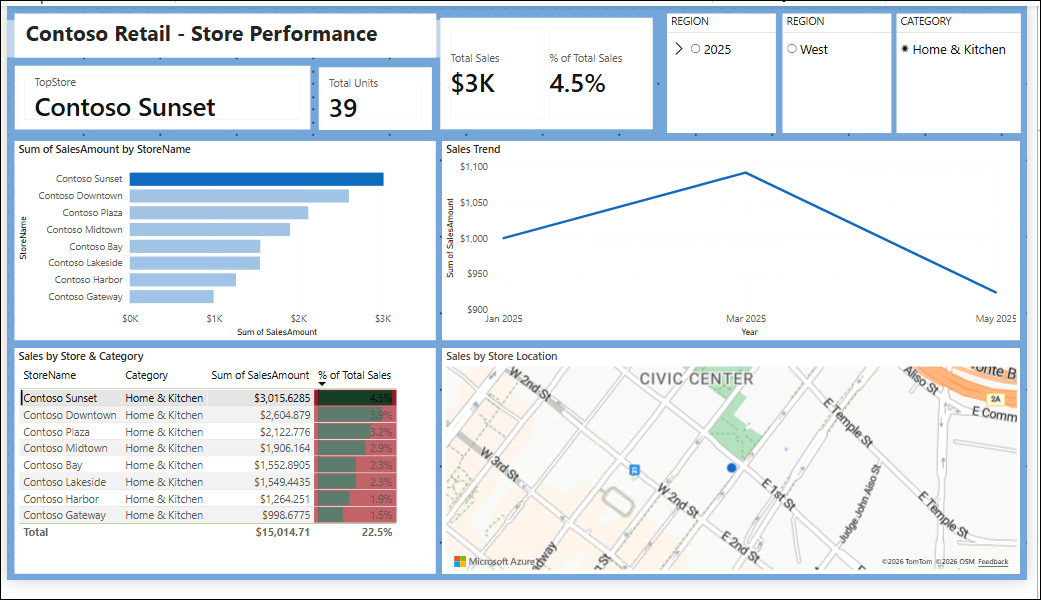
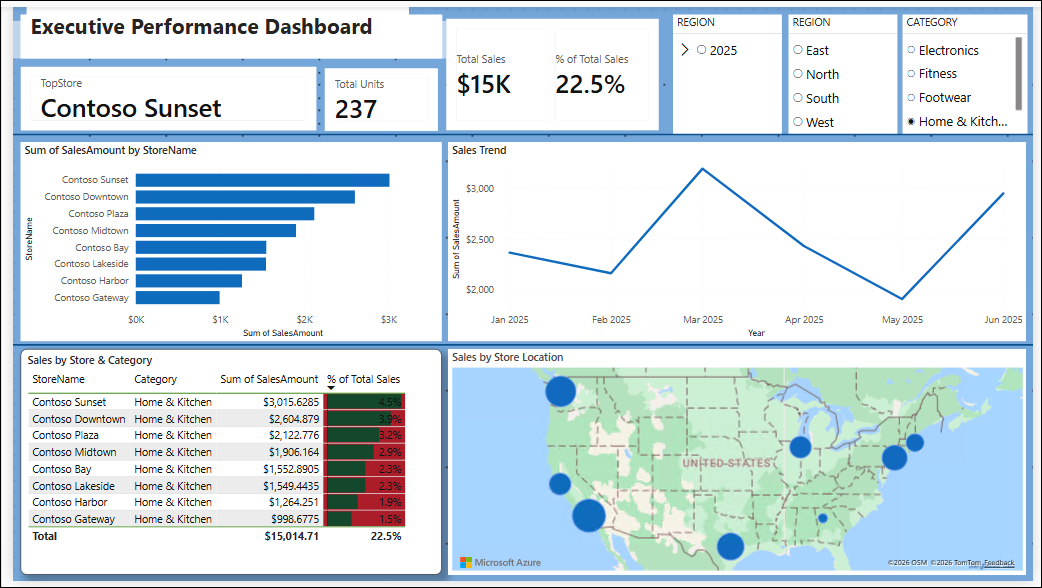
updated lab guides

diff --git a/LabGuidepackageHOL2/Lab Guide/Exercise-02.md b/LabGuidepackageHOL2/Lab Guide/Exercise-02.md
@@ -165,14 +165,10 @@ In this task, you will add presentation elements — a background, section shape
 
 1. Configure the canvas background:
 
-   - **Color (1)**: A very light neutral tint from your theme
-   - Or click **Browse (2)** under Image to add the approved branded image from **C:\LabFiles\Images\contoso-background.png**
-   - **Image fit (3)**: Fit
-   - **Transparency (4)**: Adjust (for example, **85%**) so all visuals remain fully readable
+   - **Color**: A very light neutral tint from your theme
+   - **Transparency**: Adjust (for example, **15%**) so all visuals remain fully readable
 
-   ![](./Images/L2E2T3S3.png)
-
-   > **Note**: Also review the **Wallpaper** setting, which formats the area *outside* the report canvas — useful for widescreen presentation displays.
+      ![](./Images/L2E2T3S3.png)
 
 1. On the **Insert (1)** ribbon, select **Shapes (2)** and choose **Rectangle (3)**.
 
@@ -180,25 +176,35 @@ In this task, you will add presentation elements — a background, section shape
 
 1. Resize and position the rectangle across the top of the page to act as a **title banner**, and format it:
 
-   - **Style > Fill (1)**: A primary brand colour
-   - **Border (2)**: Off, or a subtle darker shade
-   - Send it behind other elements if needed using **Format > Send backward**
+   - **Style > Fill**: A primary brand colour
+   - **Border**: Off, or a subtle darker shade
 
-   ![](./Images/L2E2T3S6.png)
+      ![](./Images/L2E2T3S5.png)
+
+   - Send it behind other elements if needed by selecting the rectangle and using **Format (1) > Send backward (2)**
+
+     ![](./Images/L2E2T3S6.png)
 
 1. Add one or two thin **Line** shapes to visually separate sections of the page (for example, KPIs at the top from detail charts below).
 
-   ![](./Images/L2E2T3S5.png)
+   - Go to **Insert (1)> Shapes (2) > Line (3)**.
+
+      ![](./Images/L2E2T3S7-1.png)
+
+   - Click and drag to draw a thin horizontal line between your KPI cards row and the charts below.
+
+      ![](./Images/L2E2T3S7.png)
 
 1. On the **Insert** ribbon, select **Text box** and enter the following page title:
 
    ```
    Executive Performance Dashboard
    ```
+   ![](./Images/L2E2T3S9.png)
 
 1. Format the title so it matches the selected report theme — set the font, size (for example, **24pt**), colour (white or a brand colour that contrasts with the banner), and **bold**, then position it on the title banner.
 
-   ![](./Images/L2E2T3S6.png)
+   ![](./Images/L2E2T3S10.png)
 
 1. Select one of your main visuals and, in **Format visual > General > Effects**, review the subtle effect options:
 
@@ -206,11 +212,21 @@ In this task, you will add presentation elements — a background, section shape
    - **Visual border** — with **Rounded corners** (for example, `8 px`)
    - **Shadow** — a light outer shadow for gentle depth
 
-   ![](./Images/L2E2T3S7.png)
+      ![](./Images/L2E2T3S11.png)
 
 1. Apply consistent effects across the visuals on the page, then step back and confirm the overall design remains clean, professional, and easy to read.
 
-1. Save the report.
+1. Review and Save the report.
+
+   - final report looks like this after applying all.
+
+     ![](./Images/L2E2T3S12.png)
+
+   - Press **Ctrl + S**, or go to **File (1) > Save (2)**.
+   
+      ![](./Images/L2E2T1S8.png)
+
+      ![](./Images/L2E2T1S10.png)
 
 ## Task 4: Add a Bullet Chart from AppSource
  